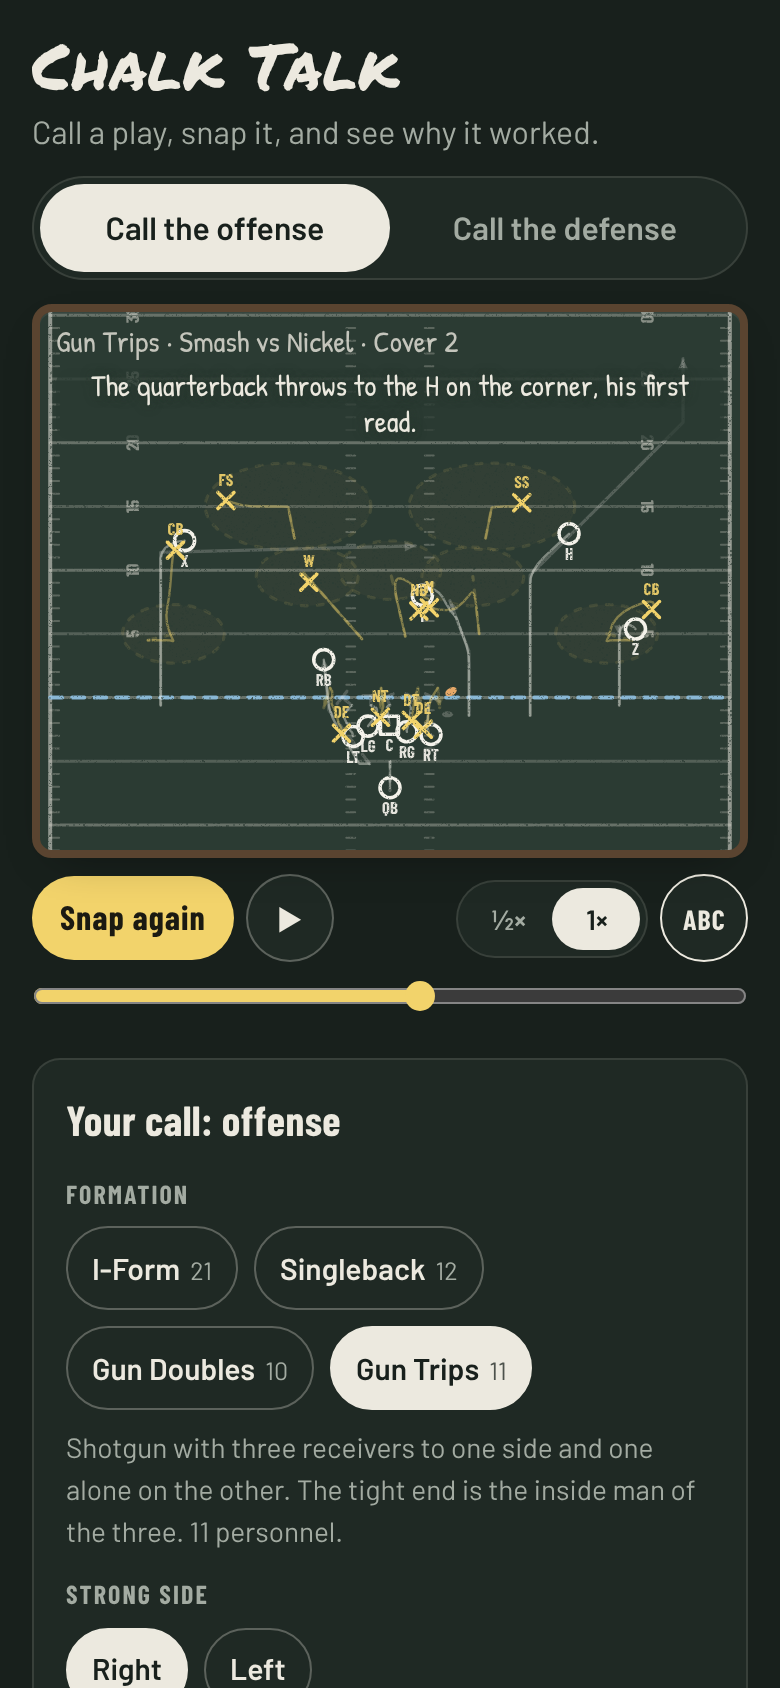
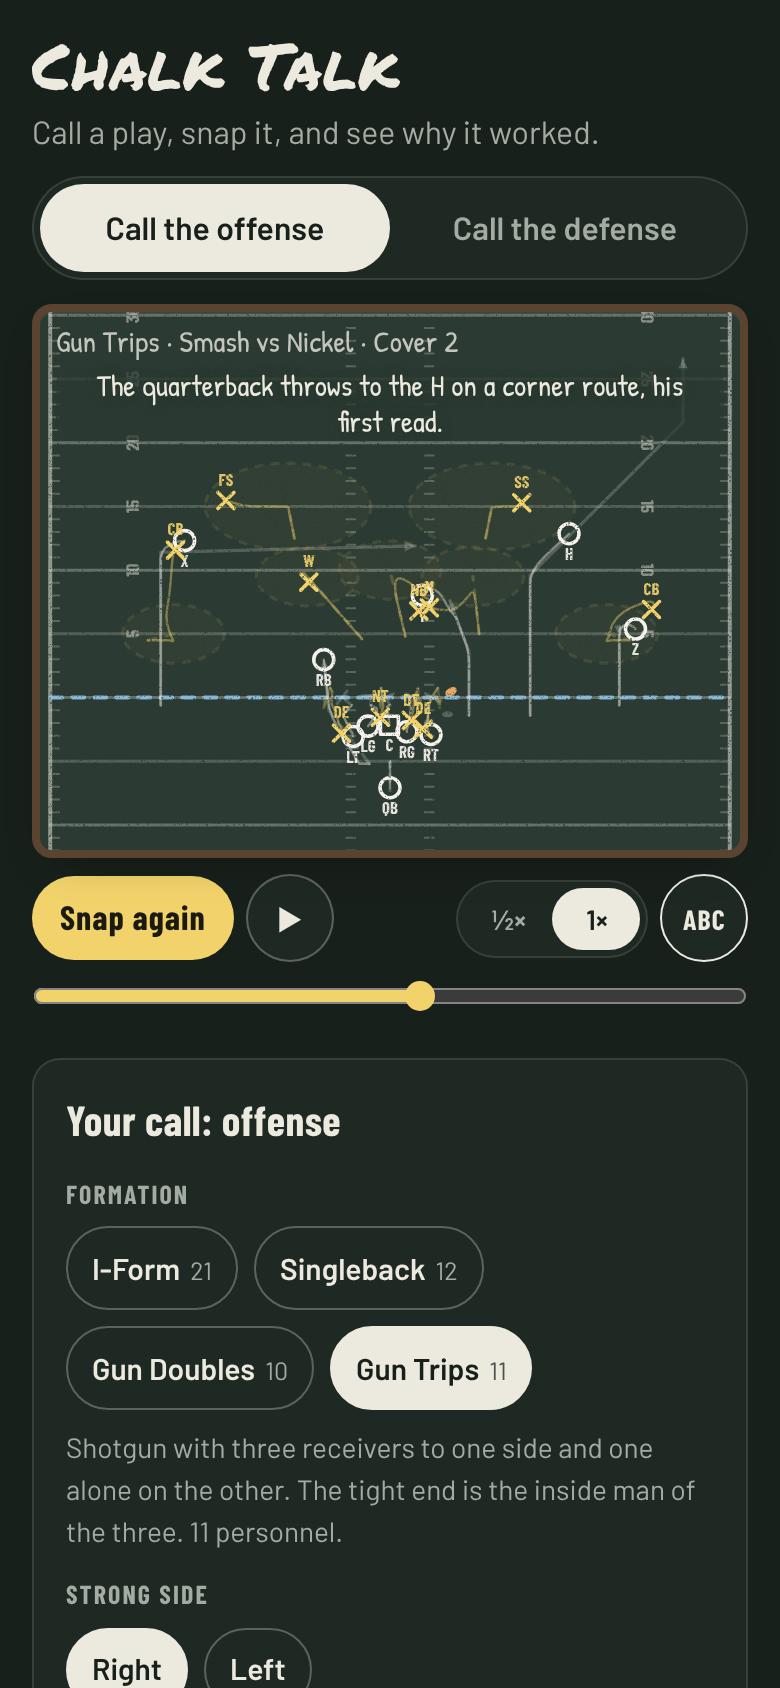
Screenshots: redraw for "on a corner route"
The README's pictures of the play and the result showed the old caption,
"throws to the H on the corner"; they now show "on a corner route", as the
page does. The play itself is the same snap, still Smash beating Cover 2
for 19 yards.

Claude-Session: https://claude.ai/code/session_01PQbLNSsq21BnpoxvUaVtX1

Changed region(s): [[0.1231, 0.2156, 0.8923, 0.2773]]

diff --git a/README.md b/README.md
@@ -7,7 +7,7 @@
 <p align="center">
   <img src="docs/phone-call.png" alt="The board before the snap: Gun Trips against a nickel defense, with the routes for Smash drawn in white chalk and the defense's alignment in yellow Xs" width="250">
   &nbsp;
-  <img src="docs/phone-play.png" alt="The same play two seconds after the snap: chalk trails show where everyone went, the zone drops are shaded, and a caption reads 'The quarterback throws to the H on the corner, his first read.'" width="250">
+  <img src="docs/phone-play.png" alt="The same play two seconds after the snap: chalk trails show where everyone went, the zone drops are shaded, and a caption reads 'The quarterback throws to the H on a corner route, his first read.'" width="250">
   &nbsp;
   <img src="docs/phone-result.png" alt="The result card: 'A win for the offense. Gain of 19 yards', the play-by-play, and a coach's note explaining why Smash beats Cover 2" width="250">
 </p>
